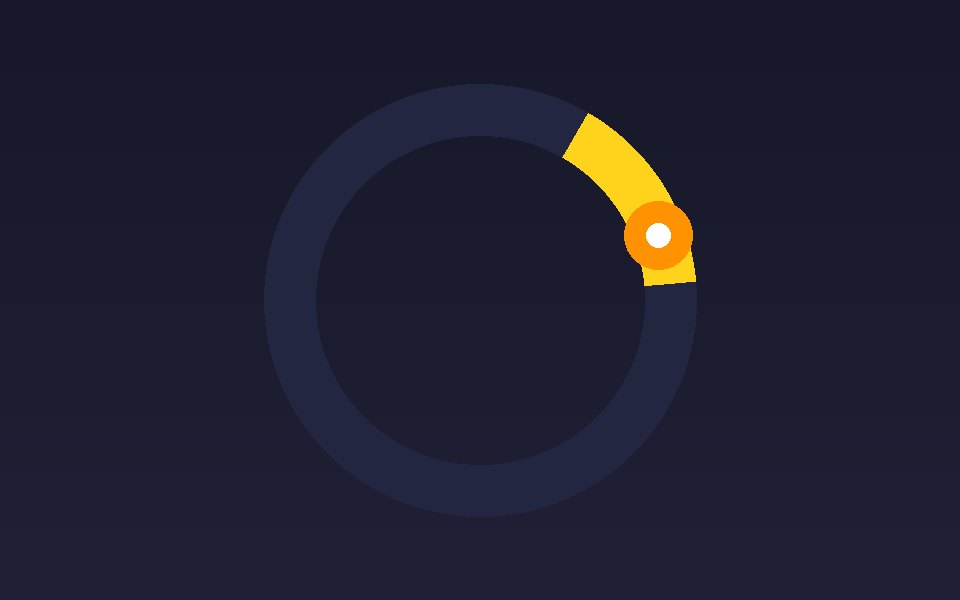
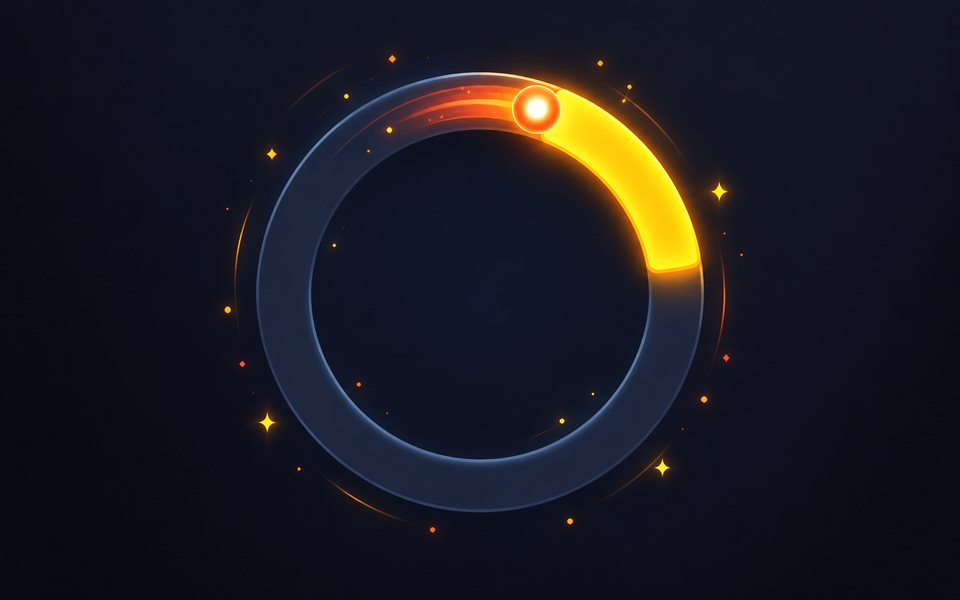
Punktlandung: Kachel- und Social-Bild, og:image
Claude-Session: https://claude.ai/code/session_01VyYmA9WMX8mV2swcBnt6KG

diff --git a/public/spiele/punktlandung.html b/public/spiele/punktlandung.html
@@ -5,7 +5,7 @@
 <link rel="canonical" href="https://playsaal.com/spiele/punktlandung">
 <meta name="description" content="Punktlandung: Tippe genau dann, wenn der Zeiger im Zielfeld ist. Jeder Treffer macht ihn schneller und das Ziel kleiner. Jeden Tag ein neuer Kurs für alle, mit geprüfter Rangliste. Kostenlos im Browser, ohne Anmeldung.">
 <meta property="og:type" content="website"><meta property="og:site_name" content="PlaySaal"><meta property="og:title" content="PUNKTLANDUNG · Timing-Spiel mit Rangliste · PlaySaal"><meta property="og:description" content="Tippen, wenn der Zeiger im Ziel ist. Wie weit kommst du? Jeden Tag ein neuer Kurs, jeder Lauf wird vom Server geprüft."><meta property="og:url" content="https://playsaal.com/spiele/punktlandung"><meta property="og:image" content="https://playsaal.com/og-playsaal-1200x630.jpg"><meta property="og:locale" content="de_DE">
-<meta name="twitter:card" content="summary_large_image"><meta name="twitter:title" content="PUNKTLANDUNG · Timing-Spiel mit Rangliste · PlaySaal"><meta name="twitter:description" content="Tippen, wenn der Zeiger im Ziel ist. Jeden Tag ein neuer Kurs für alle.">
+<meta property="og:image" content="https://playsaal.com/bilder/punktlandung-og.jpg"><meta property="og:image:width" content="1200"><meta property="og:image:height" content="630"><meta property="og:image:alt" content="Punktlandung: Zeiger trifft das gelbe Zielfeld auf dem Ring"><meta property="og:url" content="https://playsaal.com/spiele/punktlandung"><meta name="twitter:image" content="https://playsaal.com/bilder/punktlandung-og.jpg"><meta name="twitter:card" content="summary_large_image"><meta name="twitter:title" content="PUNKTLANDUNG · Timing-Spiel mit Rangliste · PlaySaal"><meta name="twitter:description" content="Tippen, wenn der Zeiger im Ziel ist. Jeden Tag ein neuer Kurs für alle.">
 <meta name="theme-color" content="#11121A">
 <link rel="icon" type="image/svg+xml" href="../favicon.svg"><link rel="icon" href="../favicon.ico" sizes="any">
 <link rel="icon" type="image/png" sizes="32x32" href="../favicon-32x32.png">
